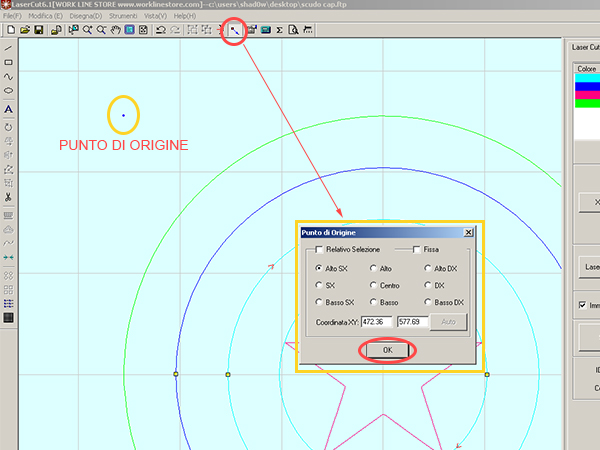
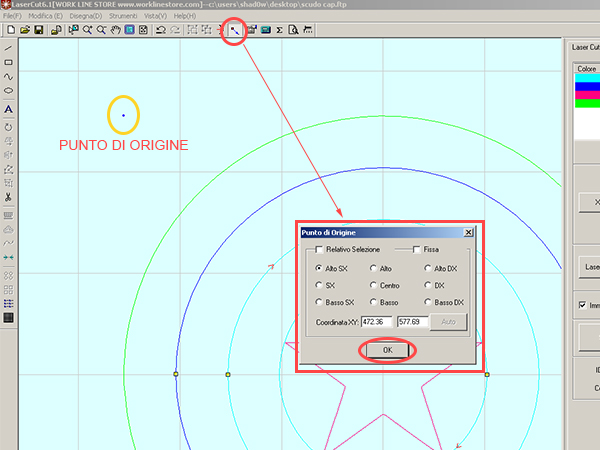
fix origin image

Changed region(s): [[0.48, 0.4667, 0.81, 0.84]]

diff --git a/laser-cutter/index.md b/laser-cutter/index.md
@@ -93,7 +93,7 @@ Dalla colonna a destra è possibile dividere le linee dell'oggetto in base a div
 Con i tasti _Sposta Su_ e _Sposta Giù_ si possono ordinare i colori in base all'ordine di esecuzione desiderato.  
 ![screen](img/laser-cutter-lasercut-layers.jpg)
 
-Assegnate le varie linee ai profili di taglio o incisione, si devono impostare le caratteristiche in base al tipo di lavorazione desiderata. Nelle immagini di seguito, sono evidenziate in giallo le voci da modificare. 
+Assegnate le varie linee ai profili di taglio o incisione, si devono impostare le caratteristiche in base al tipo di lavorazione desiderata. Nelle immagini di seguito, sono evidenziate in giallo le voci da modificare per le lavorazioni raster e di taglio. 
 ![screen profili](img/laser-cutter-lasercut-taglio.jpg)
 ![screen profili](img/laser-cutter-lasercut-raster.jpg)
 
